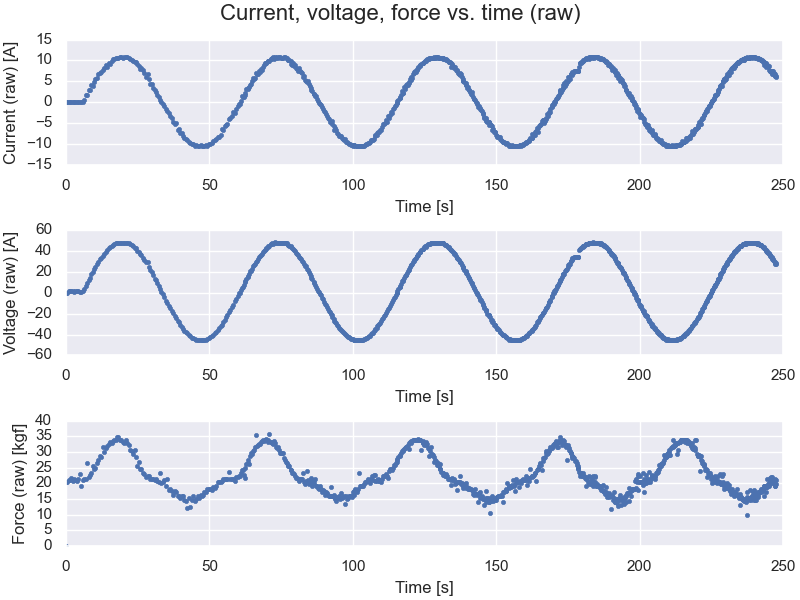
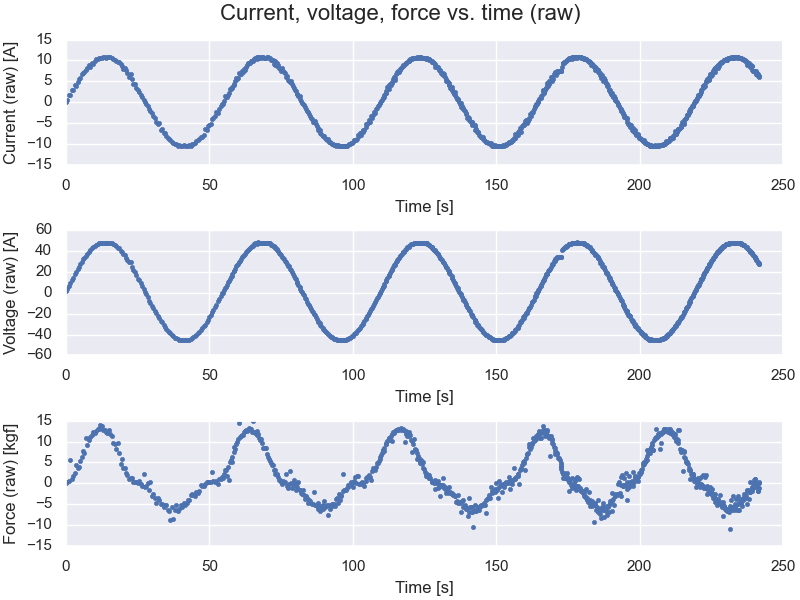
Current script should be able to provide a way to compare thruster types. Still need to improve methods of determining peak values and overlaying periods

Changed region(s): [[0.0, 0.69, 0.9688, 0.93], [0.0625, 0.39, 0.9688, 0.57], [0.0625, 0.09, 0.9688, 0.27]]

diff --git a/main.py b/main.py
@@ -1,3 +1,8 @@
+### Do another flow chart mapping out algorithm -> don't get lost in weeds
+### Use the voltage fitted plot to find peak values instead of looking at peak values in arrays
+### can then use time indexing with the approximated period to find peak values for each plot
+### maybe just curve fit all plots to find peak values??? need to check if the values are within error margins
+
 ### Import libraries ###
 import os
 import numpy as np
@@ -6,6 +11,8 @@ import matplotlib as mpl
 import matplotlib.pyplot as plt; plt.style.use('classic')
 import seaborn as sns; sns.set()
 from scipy import stats
+import scipy.optimize
+from scipy.optimize import curve_fit
 
 ### Function definitions ###
 # func: user_in
@@ -47,22 +54,26 @@ while True:
 
 ### Parse file and collect force, current and voltage data points into lists ###
 # Try to make more flexible eventually, as in being able to parse any file loosely formatted the same way 
-force = []; current = []; voltage = []; time = []; time2 = []
+force = []; current = []; voltage = []; time = []; time2 = []; force_avg = []
+force_zero = 0
 line = 0
 current_line = lines[line].split()
-while "<end" not in current_line and line < len(lines) - 1:
+while "<end" not in current_line and line < len(lines):
     if lines[line].startswith("#Scaling_Factor"): # Get scaling factors
         sf = lines[line].split()[1:6]
         sf_force = float(sf[0])
         sf_current = float(sf[1])
         sf_voltage = float(sf[3])
         lever_arm_ratio = float(sf[4]) 
-    elif line >= 5: # Get data points for force, current voltage
+    elif line >= 18: # Get data points for force, current voltage, ignore values recorded during test delay (5 seconds)
         h,m,s = current_line[1].split(':') # get seconds value corresponding to <timestamp> - 00:00:00.000
         time.append(float(h) * 3600 + float(m) * 60 + float(s)) # time is a list containing floating point second values 
-        force.append(float(current_line[2]))
+        force.append(float(current_line[2]) - force_zero) # compute all force values wrt the pre-loaded value
         current.append(float(current_line[3]))
         voltage.append(float(current_line[5]))
+    elif 5 < line < 18: # During test delay period, get an average for the initial pre-loaded force value
+        force_avg.append(float(current_line[2]))
+        force_zero = np.mean(np.array(force_avg))
     line += 1
     current_line = lines[line].split()
 
@@ -72,15 +83,12 @@ while "<end" not in current_line and line < len(lines) - 1:
 force = np.array(force) * sf_force * lever_arm_ratio # apply scaling factors 
 current = np.array(current) * sf_current
 voltage = np.array(voltage) * sf_voltage
+power = np.multiply(current, voltage) # compute power
 time = np.array(time)
-
-### Compute power ###
-power = np.multiply(current, voltage)
 
 # Format timestamps such that time values are the value in seconds since beginning automated test #
 ref_time = time[0]
-for t in range(len(time)):
-    time[t] = time[t] - ref_time
+for t in range(len(time)): time[t] = time[t] - ref_time
 
 ### Create dataframe with Pandas, indexing by time in seconds ###
 df_data = pd.DataFrame({"Force": force, "Current": current, "Voltage": voltage, "Power": power}, index = time)
@@ -92,7 +100,6 @@ for plot in range(len(axt)): axt[plot].set_xlabel("Time [s]")
 
 axt[0].plot(df_data.index, df_data["Current"], '.') # Current vs. time scatter
 axt[0].set_ylabel("Current (raw) [A]")
-axt[0].set_ylim(-15,15)
 
 axt[1].plot(df_data.index, df_data["Voltage"], '.') # Voltage vs. time scatter
 axt[1].set_ylabel("Voltage (raw) [A]")
@@ -100,26 +107,52 @@ axt[1].set_ylabel("Voltage (raw) [A]")
 axt[2].plot(df_data.index, df_data["Force"], '.') # Force/thrust vs. time scatter
 axt[2].set_ylabel("Force (raw) [kgf]")
 
-# For power, I need to figure out how to compute max power for reverse direction (this will do for now)
+# Determine max power for reverse direction
 pmin = power[0]
-for i in range(len(power)):
+for i in range(len(power)): 
     if(abs(power[i]) > abs(pmin) and voltage[i] < 0 and current[i] < 0): pmin = power[i]
 
 ### Determine and store peak values from raw data into Pandas dataframe ###
 peaks = np.array([np.amax(force), np.amax(current), np.amax(voltage), np.amax(power)])
 troughs = np.array([abs(np.min(force)), abs(np.amin(current)), abs(np.amin(voltage)), pmin])
-df_extrema = pd.DataFrame({"Max forward (raw)": peaks, "Max reverse (raw)": troughs}, index = ["Force", "Current", "Voltage", "Power"])
+df_extrema = pd.DataFrame({"Max forward (raw)": peaks, "Max reverse (raw)": troughs}, index = ["Force [lbf]", "Current [A]", "Voltage [V]", "Power [W]"])
+# add units
 
-### Graph thrust vs. current using Matplotlib ###
+### Curve fitting for time series ###
+def sin_func(t, A, f):
+    return A*np.sin(2*np.pi*f*t)
+popt, pcov = curve_fit(sin_func,  # function to approximate data
+                       time,      # measured x values
+                       voltage,   # measured y values
+                       p0=(np.max(voltage), 1.0/55.0))  # the initial guess for amplitude and frequency
+fitted_amp = popt[0]
+fitted_freq = popt[1]
+syncd_v_data = sin_func(time, fitted_amp, fitted_freq) # approximated voltage sine curve
+syncd_data = np.vstack((time, syncd_v_data, force, current)).T # "syncing" all plots in a array stack
 
-# Seperate forward/reverse direction current, thrust and voltage values, use voltage plot as the zero cross reference
+# Obtain max, min and zero values for fitted voltage plot
+v_max = np.full_like(syncd_data[:,1],syncd_data[:,1].max()) # max for voltage plot
+v_min = np.full_like(syncd_data[:,1],syncd_data[:,1].min()) # min for voltage plot
+v_zero = np.full_like(syncd_data[:,1],0) # zero for plot
+
+#plot all the synced data 
+fig, figsync = plt.subplots(1)
+figsync.plot(syncd_data[:,0],syncd_data[:,1]) 
+figsync.plot(syncd_data[:,0],syncd_data[:,3])
+figsync.plot(syncd_data[:,0],syncd_data[:,2])
+
+### Graphing thrust vs. current ###
+# Seperate forward/reverse direction current, thrust and voltage values, using voltage plot as zero cross reference
 num_periods = 5
+compared = False
+voltage_avg_f = np.array([])
+i = j = 0
 current_f = []; force_f = []; voltage_f = []
 current_r = []; force_r = []; voltage_r = []
-i = j = 0
 
 # Redo such that loops are less dependent on sign -> use time values and properties of sine wave
-while(voltage[i] < 0 and i < len(voltage) - 1): i += 1 # get to zero cross of voltage graph
+# Makes the assumption that after crossing 0, voltage plot does not dip negative
+while(voltage[i] <= 0 and i < len(voltage) - 1): i += 1 # get to zero cross of voltage graph
 for j in range(num_periods):
     while(voltage[i] >= 0 and i < len(voltage) - 1): # get forward current, force and voltage values
         current_f.append(current[i])
@@ -139,14 +172,23 @@ current_r = np.array(current_r); force_r = np.array(force_r); voltage_r = np.arr
 ### Use Linear Regression to determine thrust vs. current slopes (forward and reverse) ###
 # Determine forward direction thrust vs. current trendline
 slope, intercept, r, p, std_err = stats.linregress(current_f, force_f)
+m_f = slope; b_f = intercept; r_f = r
 
-def myfunc(current):
+def ct_line(current):
   return slope * current + intercept
-mymodel_f = list(map(myfunc, current_f))
+
+mymodel_f = list(map(ct_line, current_f))
 
 # Determine reverse direction thrust vs. current trendline
 slope, intercept, r, p, std_err = stats.linregress(current_r, force_r)
-mymodel_r = list(map(myfunc, current_r))
+m_r = slope; b_r = intercept; r_r = r
+
+mymodel_r = list(map(ct_line, current_r))
+
+### Save slope and intercept data into dataframe ###
+ct_stats_f = np.array([m_f, b_f, r_f**2])
+ct_stats_r = np.array([m_r, b_r, r_r**2])
+df_stats = pd.DataFrame({"Forward": ct_stats_f, "Reverse": ct_stats_r}, index = ["m [lbf/A]", "b", "r^2"])
 
 # Graph forward direction thrust vs. current
 figc_f = plt.figure()
@@ -178,10 +220,12 @@ if not os.path.isdir(my_path + data_folder + fig_folder):
 figt.savefig(my_path + data_folder + fig_folder + ts_file)
 figc_f.savefig(my_path + data_folder + fig_folder + ct_file_f)
 figc_r.savefig(my_path + data_folder + fig_folder + ct_file_r)
-with open(my_path + data_folder + "\\extrema.txt", mode = 'w') as file_object:
-    print(df_extrema, file = file_object)
 
-### Pre-process data (clean up rails/outliers, re-sample using pandas) ###
+with open(my_path + data_folder + "\\stats.txt", mode = 'w') as file_object:
+    print("|Peak Values|", file = file_object)
+    print(df_extrema, file = file_object)
+    print("\n|Thrust vs. current stats|", file = file_object)
+    print(df_stats, file = file_object)
 
 ### Display all plots, data of interest -> last action in program ###
 #plt.show() 
